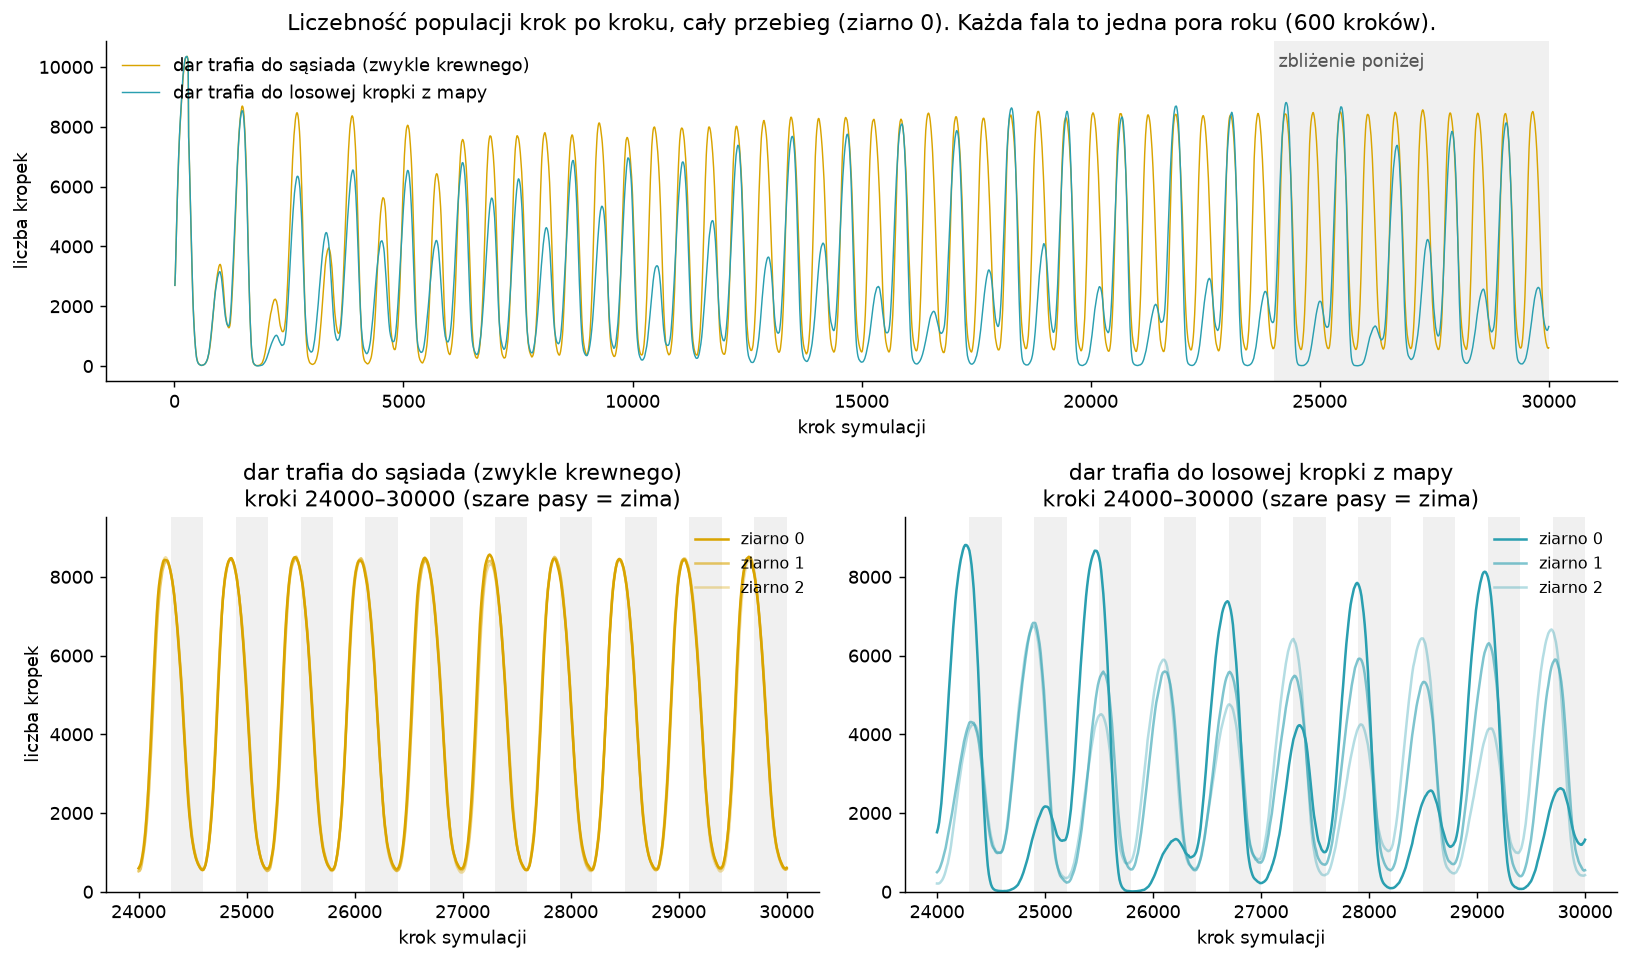
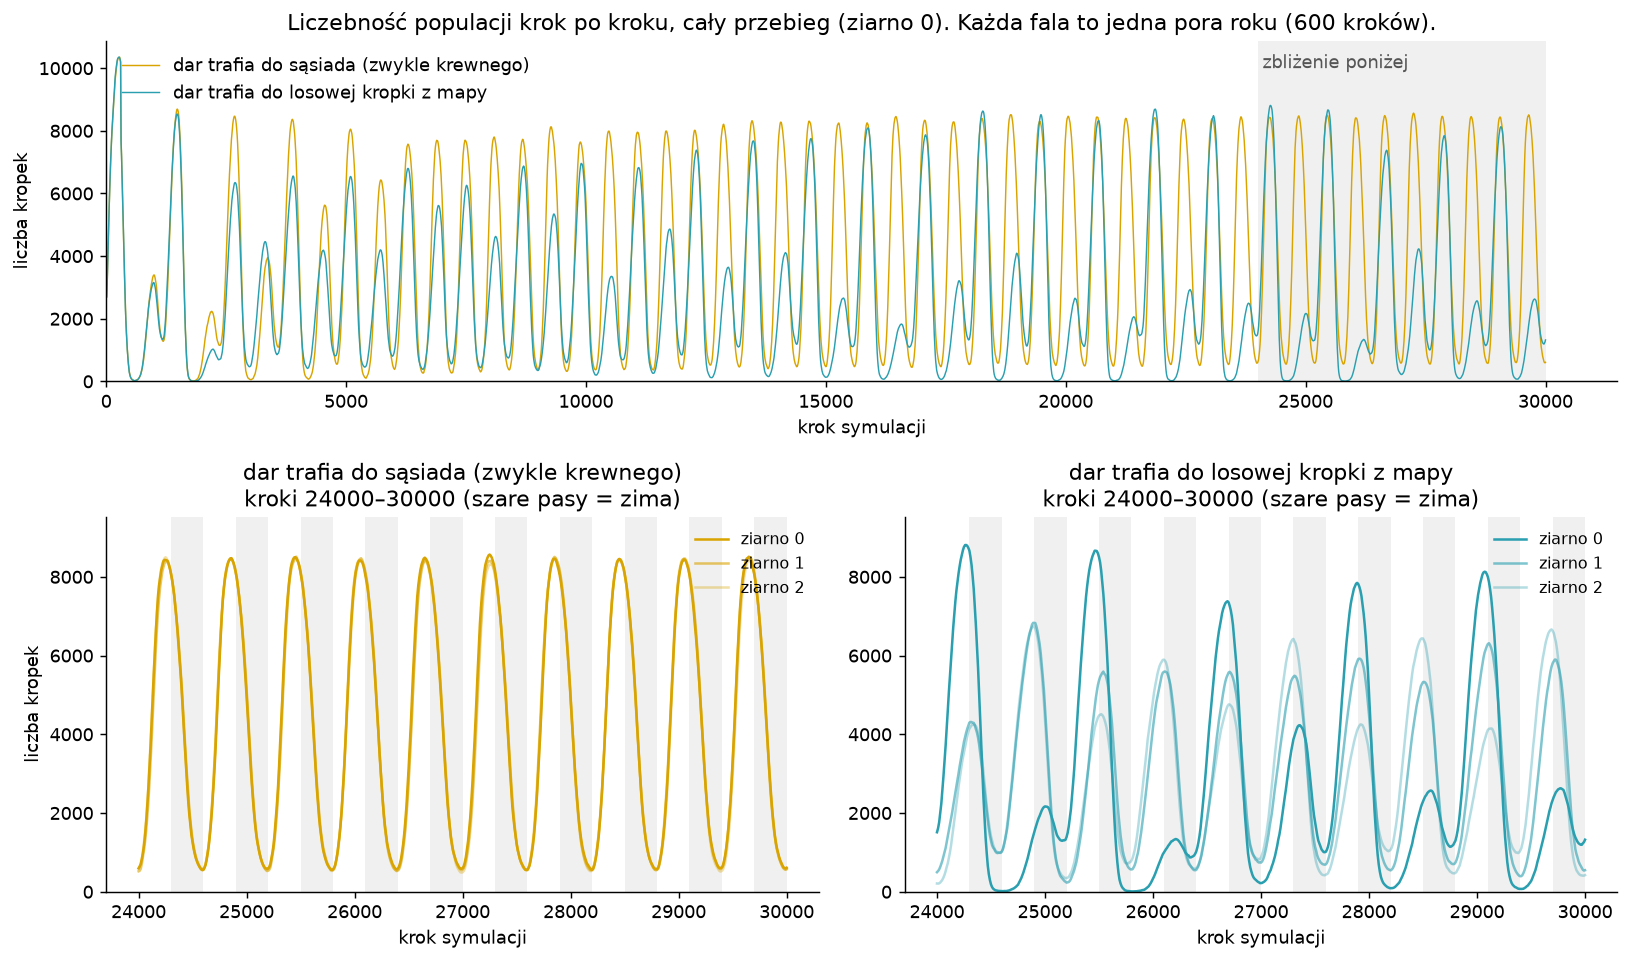
Population figure: start the axes of the full-run plot at zero

Changed region(s): [[0.0307, 0.0624, 0.9816, 0.437], [0.0307, 0.3746, 0.092, 0.4058], [0.0307, 0.0624, 0.092, 0.0937]]

diff --git a/analysis/plot_population.py b/analysis/plot_population.py
@@ -46,6 +46,8 @@ def main(src: str, out: str) -> None:
                   f"Każda fala to jedna pora roku ({period} kroków).")
     top.set_ylabel("liczba kropek")
     top.set_xlabel("krok symulacji")
+    top.set_ylim(bottom=0)
+    top.set_xlim(left=0)
     top.legend(loc="upper left", frameon=False)
     top.axvspan(*ZOOM, color="#888888", alpha=0.12, lw=0)
     top.text(ZOOM[0] + 100, top.get_ylim()[1] * 0.92, "zbliżenie poniżej", color="#555555")
